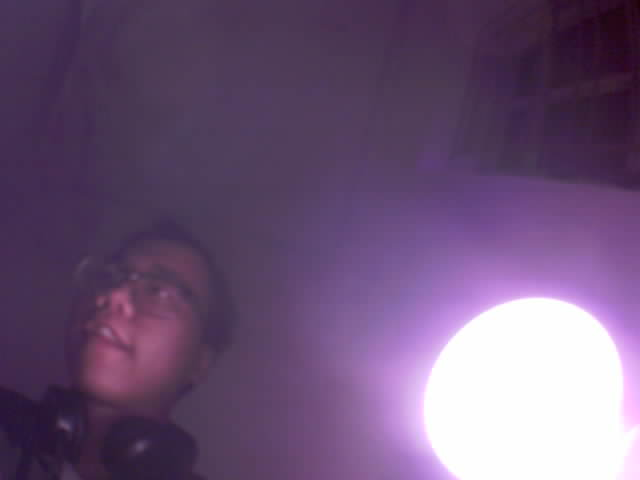
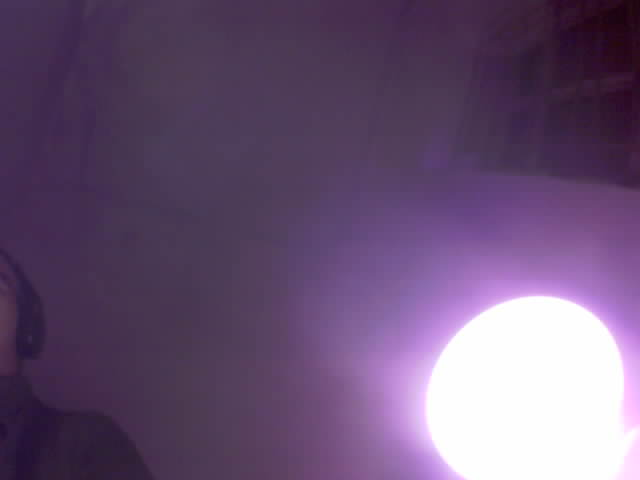
fix handle config mode function

diff --git a/esp32/components/sensors/ultrasonic_sensor.c b/esp32/components/sensors/ultrasonic_sensor.c
@@ -90,8 +90,6 @@ static float ultrasonic_sensor_read(uint8_t trig_pin, uint8_t echo_pin){
 static float ultrasonic_sensor_read_distance(uint8_t trig_pin, uint8_t echo_pin) {
     float readings[5] = { 0 };
     int valid_count = 0;
-    
-    ESP_LOGI(TAG, "Read ultrasonic sensor");
 
     for(int i = 0; i < 5; i++){
         float distance = ultrasonic_sensor_read(trig_pin, echo_pin);
@@ -121,7 +119,7 @@ static float ultrasonic_sensor_read_distance(uint8_t trig_pin, uint8_t echo_pin)
     
     // Return median
     float median = readings[valid_count / 2];
-    ESP_LOGI(TAG, "Distance: %.2f cm (from %d valid readings)", median, valid_count);
+    ESP_LOGD(TAG, "Distance: %.2f cm (from %d valid readings)", median, valid_count);
     
     return median;
 }

diff --git a/esp32/main/main.c b/esp32/main/main.c
@@ -206,6 +206,7 @@ static void handle_config_mode(void) {
     
     // Stop current WiFi
     wifi_stop();
+    mqtt_client_stop();
     
     // Start AP mode
     if (wifi_start_ap_mode() == ESP_OK) {
